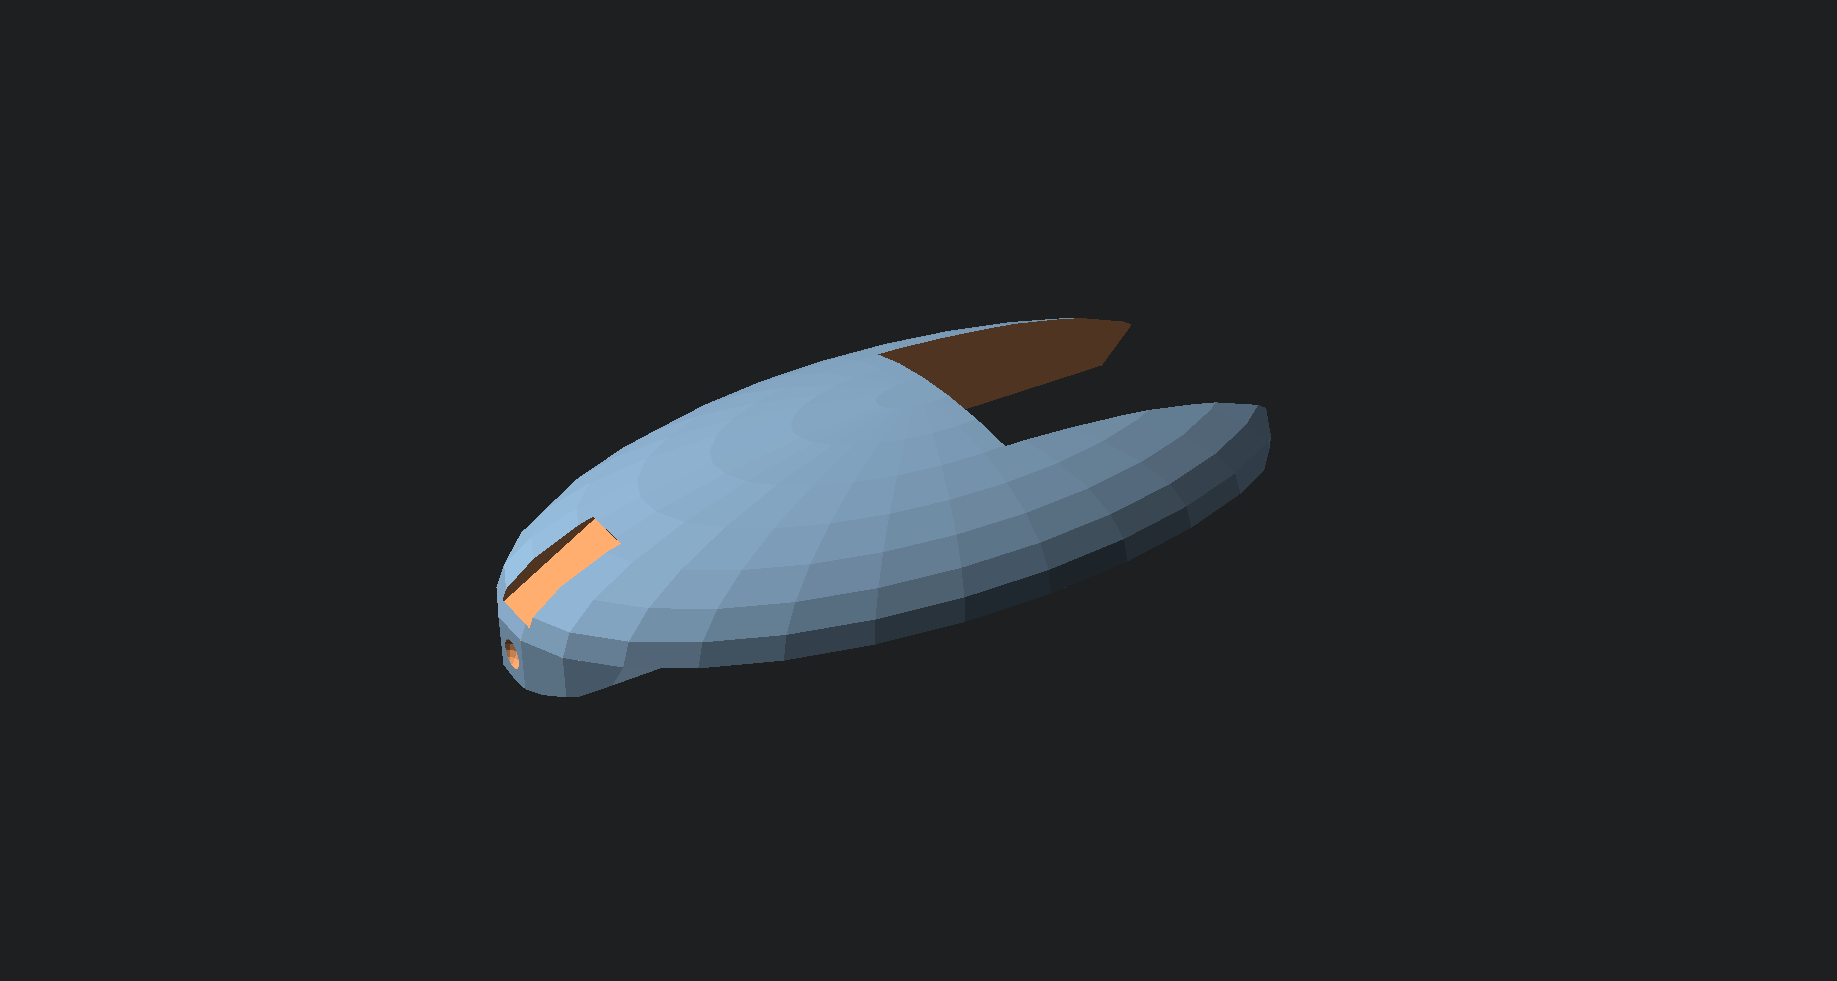
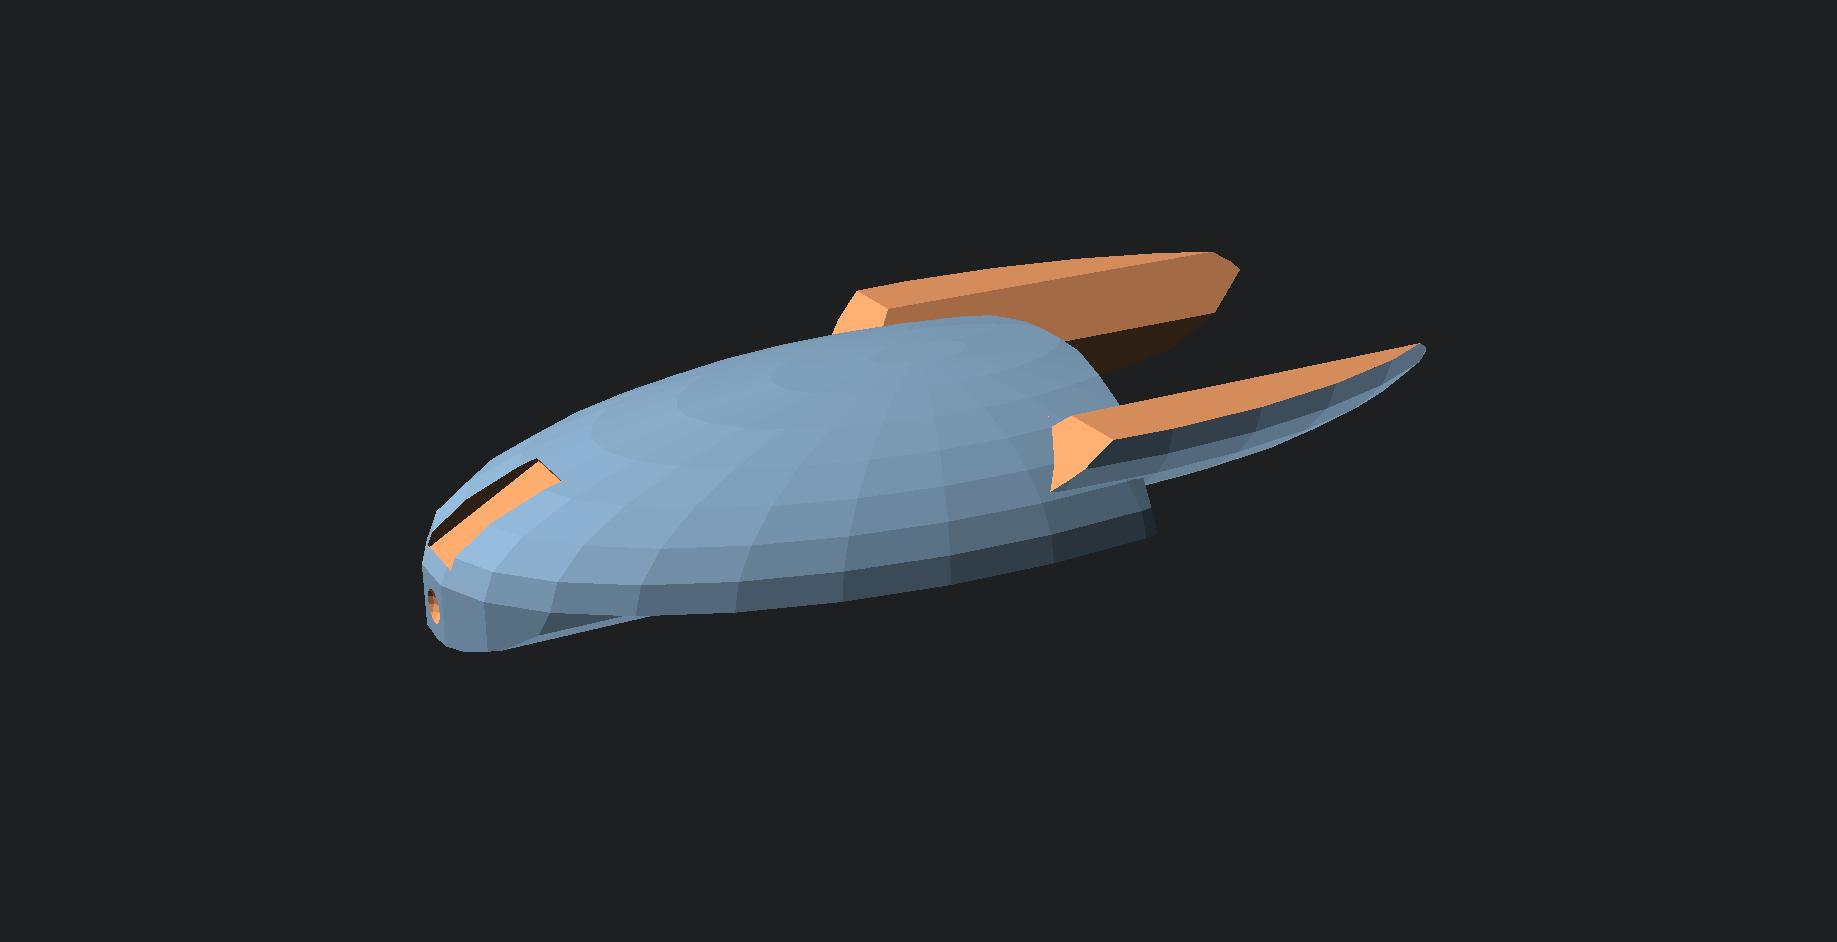
added image and updated dimensions

Changed region(s): [[0.2172, 0.2463, 0.7757, 0.7081]]

diff --git a/README.md b/README.md
@@ -146,7 +146,7 @@ Vulture Class Light Escort/Tactical Scout
 
 ### Stats
 
- * Length: 53m
+ * Length: 60m
  * Width: 30m
  * Height: 11m
  * Decks: 3
